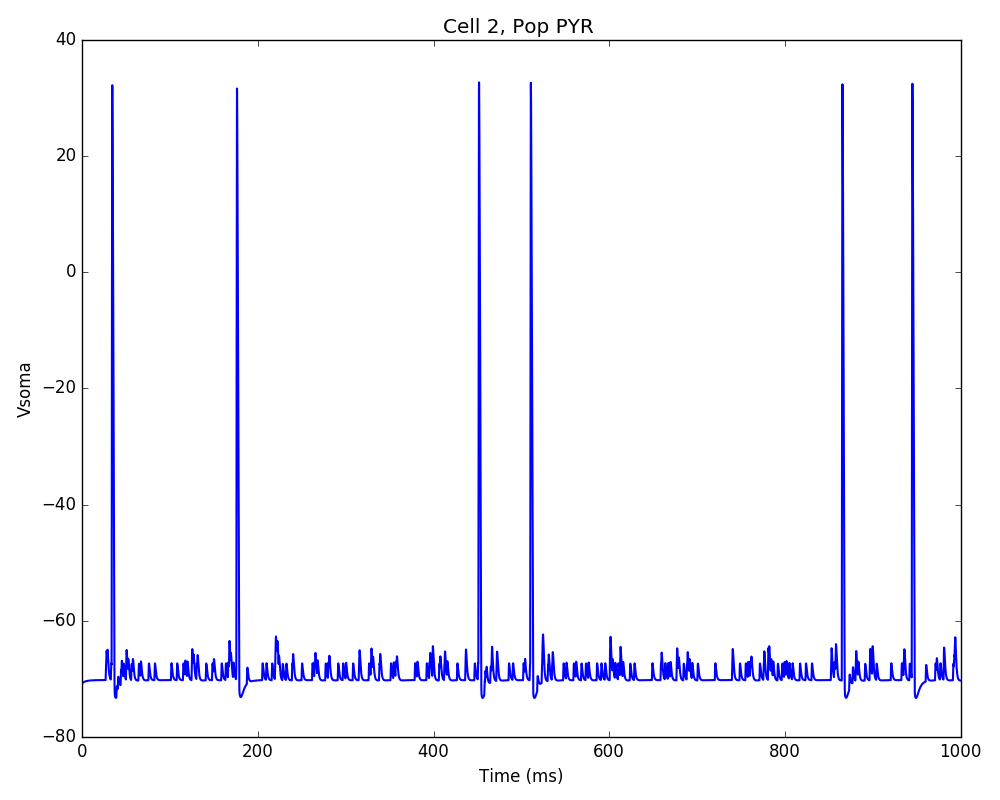
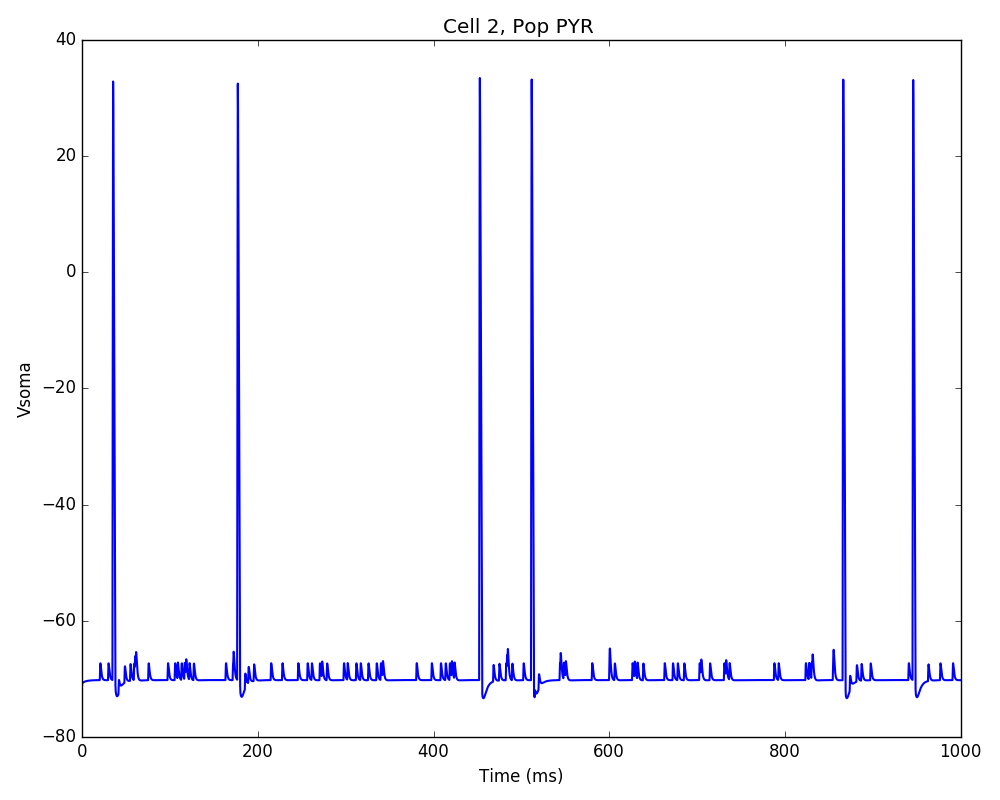
updated tut1 figs

diff --git a/examples/HHTut/HHTut.py b/examples/HHTut/HHTut.py
@@ -25,7 +25,7 @@ simConfig = specs.SimConfig()   # object of class SimConfig to store the simulat
 ###############################################################################
 
 # Population parameters
-netParams.popParams['PYR'] = {'cellModel': 'HH', 'cellType': 'PYR', 'numCells': 100} # add dict with params for this pop 
+netParams.popParams['PYR'] = {'cellModel': 'HH', 'cellType': 'PYR', 'numCells': 200} # add dict with params for this pop 
 
 
 # Cell parameters

diff --git a/doc/source/tutorial.rst b/doc/source/tutorial.rst
@@ -56,10 +56,6 @@ If you want to avoid typing that long line every time, you can download this sim
 
 Whatever method you use, you should get a 2D representation of the cells and connections in the network, a raster plot (spikes as cell vs time) and the voltage trace of a single cell: 
 
-.. image:: figs/tut1.png
-	:width: 100%
-	:align: center
-
 .. image:: figs/tut1_net.png
 	:width: 30%
 
